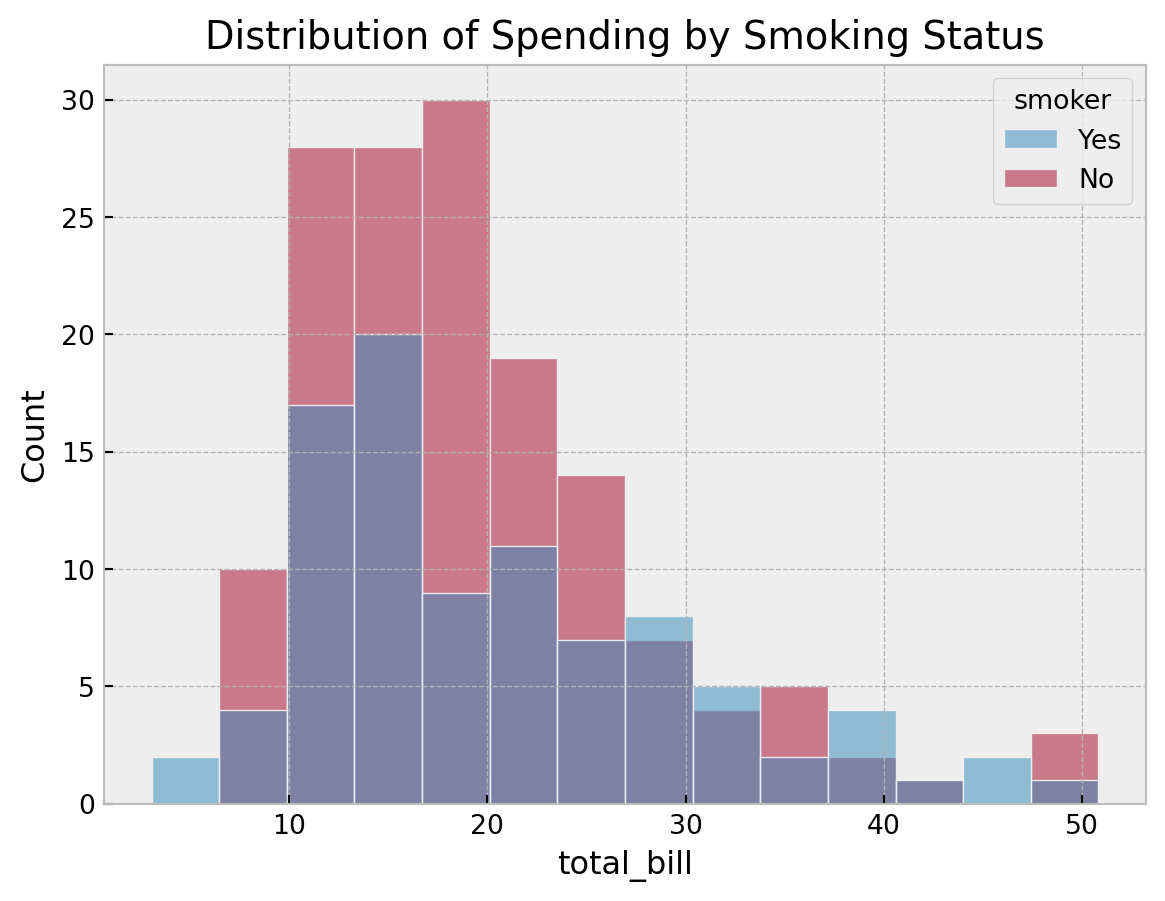
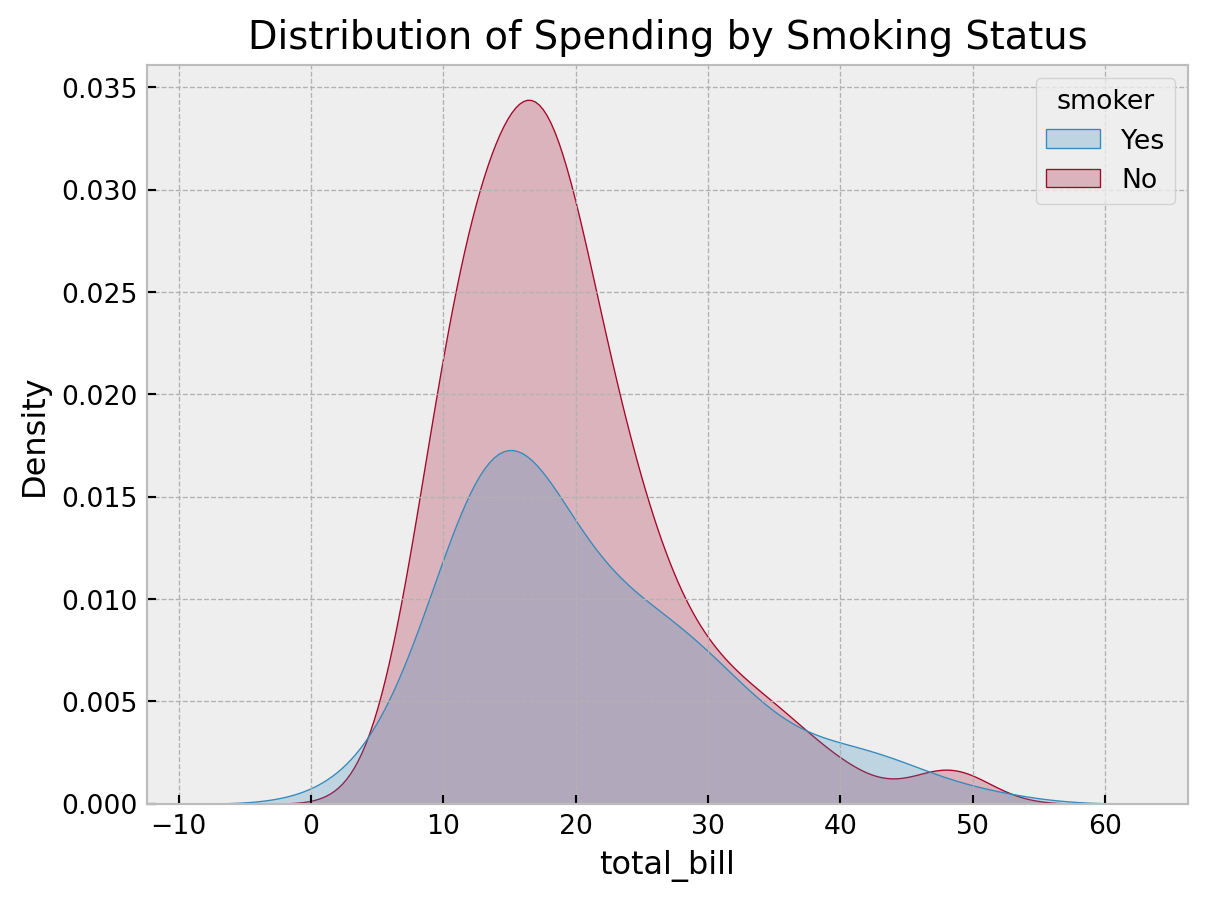
"Test Commit"

diff --git a/docs/data_analytical_posts/tips_data/index.html b/docs/data_analytical_posts/tips_data/index.html
@@ -205,7 +205,7 @@ pre > code.sourceCode > span > a:first-child::before { text-decoration: underlin
 
 
 <p>This is a post on the tips dataset. This dataset is a record of</p>
-<div id="d78b0d78" class="cell" data-execution_count="1">
+<div id="595e9bd0" class="cell" data-execution_count="1">
 <div class="sourceCode cell-code" id="cb1"><pre class="sourceCode python code-with-copy"><code class="sourceCode python"><span id="cb1-1"><a href="#cb1-1" aria-hidden="true" tabindex="-1"></a><span class="im">import</span> pandas <span class="im">as</span> pd</span>
 <span id="cb1-2"><a href="#cb1-2" aria-hidden="true" tabindex="-1"></a><span class="im">import</span> numpy <span class="im">as</span> np</span>
 <span id="cb1-3"><a href="#cb1-3" aria-hidden="true" tabindex="-1"></a><span class="im">import</span> matplotlib.pyplot <span class="im">as</span> plt</span>
@@ -213,7 +213,7 @@ pre > code.sourceCode > span > a:first-child::before { text-decoration: underlin
 <span id="cb1-5"><a href="#cb1-5" aria-hidden="true" tabindex="-1"></a></span>
 <span id="cb1-6"><a href="#cb1-6" aria-hidden="true" tabindex="-1"></a>df_tips <span class="op">=</span> sns.load_dataset(<span class="st">"tips"</span>)</span>
 <span id="cb1-7"><a href="#cb1-7" aria-hidden="true" tabindex="-1"></a>df_tips.head()</span></code><button title="Copy to Clipboard" class="code-copy-button"><i class="bi"></i></button></pre></div>
-<div class="cell-output cell-output-display" data-execution_count="1">
+<div class="cell-output cell-output-display" data-execution_count="8">
 <div>
 
 
@@ -288,7 +288,7 @@ pre > code.sourceCode > span > a:first-child::before { text-decoration: underlin
 </div>
 </div>
 <p>Let us plot visit counts by days of the week.</p>
-<div id="b8d13be2" class="cell" data-execution_count="2">
+<div id="132d9e0d" class="cell" data-execution_count="2">
 <div class="sourceCode cell-code" id="cb2"><pre class="sourceCode python code-with-copy"><code class="sourceCode python"><span id="cb2-1"><a href="#cb2-1" aria-hidden="true" tabindex="-1"></a>plt.style.use(<span class="st">"bmh"</span>)</span>
 <span id="cb2-2"><a href="#cb2-2" aria-hidden="true" tabindex="-1"></a></span>
 <span id="cb2-3"><a href="#cb2-3" aria-hidden="true" tabindex="-1"></a>plt.title(<span class="st">"Visit Counts by Day of the Week"</span>)</span>
@@ -302,7 +302,7 @@ pre > code.sourceCode > span > a:first-child::before { text-decoration: underlin
 </div>
 </div>
 <p>We can also examine the distribution of visit counts by day of the week and sex.</p>
-<div id="c79d2a5a" class="cell" data-execution_count="3">
+<div id="a17b460a" class="cell" data-execution_count="3">
 <div class="sourceCode cell-code" id="cb3"><pre class="sourceCode python code-with-copy"><code class="sourceCode python"><span id="cb3-1"><a href="#cb3-1" aria-hidden="true" tabindex="-1"></a>plt.title(<span class="st">"Visit Counts by Day of the Week"</span>)</span>
 <span id="cb3-2"><a href="#cb3-2" aria-hidden="true" tabindex="-1"></a>sns.countplot(x<span class="op">=</span><span class="st">"day"</span>, hue<span class="op">=</span><span class="st">"sex"</span>, data<span class="op">=</span>df_tips)<span class="op">;</span></span></code><button title="Copy to Clipboard" class="code-copy-button"><i class="bi"></i></button></pre></div>
 <div class="cell-output cell-output-display">
@@ -315,7 +315,7 @@ pre > code.sourceCode > span > a:first-child::before { text-decoration: underlin
 </div>
 <section id="distribution-of-spending-by-gender" class="level2">
 <h2 class="anchored" data-anchor-id="distribution-of-spending-by-gender">Distribution of spending by gender</h2>
-<div id="495257ee" class="cell" data-execution_count="4">
+<div id="f5035c55" class="cell" data-execution_count="4">
 <div class="sourceCode cell-code" id="cb4"><pre class="sourceCode python code-with-copy"><code class="sourceCode python"><span id="cb4-1"><a href="#cb4-1" aria-hidden="true" tabindex="-1"></a>plt.title(<span class="st">"Distribution of Spending by Gender"</span>)</span>
 <span id="cb4-2"><a href="#cb4-2" aria-hidden="true" tabindex="-1"></a>sns.histplot(x<span class="op">=</span><span class="st">"total_bill"</span>, hue<span class="op">=</span><span class="st">"sex"</span>, data<span class="op">=</span>df_tips, fill<span class="op">=</span><span class="va">True</span>)<span class="op">;</span></span></code><button title="Copy to Clipboard" class="code-copy-button"><i class="bi"></i></button></pre></div>
 <div class="cell-output cell-output-display">
@@ -329,13 +329,39 @@ pre > code.sourceCode > span > a:first-child::before { text-decoration: underlin
 </section>
 <section id="distribution-of-spending-by-smoking-status" class="level2">
 <h2 class="anchored" data-anchor-id="distribution-of-spending-by-smoking-status">Distribution of spending by smoking status</h2>
-<div id="fc651629" class="cell" data-execution_count="5">
+<div id="f770e901" class="cell" data-execution_count="5">
 <div class="sourceCode cell-code" id="cb5"><pre class="sourceCode python code-with-copy"><code class="sourceCode python"><span id="cb5-1"><a href="#cb5-1" aria-hidden="true" tabindex="-1"></a>plt.title(<span class="st">"Distribution of Spending by Smoking Status"</span>)</span>
-<span id="cb5-2"><a href="#cb5-2" aria-hidden="true" tabindex="-1"></a>sns.histplot(x<span class="op">=</span><span class="st">"total_bill"</span>, hue<span class="op">=</span><span class="st">"smoker"</span>, data<span class="op">=</span>df_tips, fill<span class="op">=</span><span class="va">True</span>)<span class="op">;</span></span></code><button title="Copy to Clipboard" class="code-copy-button"><i class="bi"></i></button></pre></div>
+<span id="cb5-2"><a href="#cb5-2" aria-hidden="true" tabindex="-1"></a>sns.kdeplot(x<span class="op">=</span><span class="st">"total_bill"</span>, hue<span class="op">=</span><span class="st">"smoker"</span>, data<span class="op">=</span>df_tips, fill<span class="op">=</span><span class="va">True</span>)<span class="op">;</span></span></code><button title="Copy to Clipboard" class="code-copy-button"><i class="bi"></i></button></pre></div>
 <div class="cell-output cell-output-display">
 <div>
 <figure class="figure">
-<p><img src="index_files/figure-html/cell-6-output-1.png" width="583" height="451" class="figure-img"></p>
+<p><img src="index_files/figure-html/cell-6-output-1.png" width="604" height="451" class="figure-img"></p>
+</figure>
+</div>
+</div>
+</div>
+</section>
+<section id="distribution-of-spending-by-day" class="level2">
+<h2 class="anchored" data-anchor-id="distribution-of-spending-by-day">Distribution of spending by day</h2>
+<div id="8e87820b" class="cell" data-execution_count="6">
+<div class="sourceCode cell-code" id="cb6"><pre class="sourceCode python code-with-copy"><code class="sourceCode python"><span id="cb6-1"><a href="#cb6-1" aria-hidden="true" tabindex="-1"></a>plt.title(<span class="st">"Distribution of Spending by Day"</span>)</span>
+<span id="cb6-2"><a href="#cb6-2" aria-hidden="true" tabindex="-1"></a>sns.histplot(x<span class="op">=</span><span class="st">"total_bill"</span>, hue<span class="op">=</span><span class="st">"day"</span>, data<span class="op">=</span>df_tips, fill<span class="op">=</span><span class="va">True</span>)<span class="op">;</span></span></code><button title="Copy to Clipboard" class="code-copy-button"><i class="bi"></i></button></pre></div>
+<div class="cell-output cell-output-display">
+<div>
+<figure class="figure">
+<p><img src="index_files/figure-html/cell-7-output-1.png" width="583" height="451" class="figure-img"></p>
+</figure>
+</div>
+</div>
+</div>
+<p>We can also include boxplots.</p>
+<div id="86477d61" class="cell" data-execution_count="7">
+<div class="sourceCode cell-code" id="cb7"><pre class="sourceCode python code-with-copy"><code class="sourceCode python"><span id="cb7-1"><a href="#cb7-1" aria-hidden="true" tabindex="-1"></a>plt.title(<span class="st">"Distribution of Spending by Day"</span>)</span>
+<span id="cb7-2"><a href="#cb7-2" aria-hidden="true" tabindex="-1"></a>sns.boxplot(x<span class="op">=</span><span class="st">"day"</span>, y<span class="op">=</span><span class="st">"total_bill"</span>, data<span class="op">=</span>df_tips)<span class="op">;</span></span></code><button title="Copy to Clipboard" class="code-copy-button"><i class="bi"></i></button></pre></div>
+<div class="cell-output cell-output-display">
+<div>
+<figure class="figure">
+<p><img src="index_files/figure-html/cell-8-output-1.png" width="583" height="450" class="figure-img"></p>
 </figure>
 </div>
 </div>

diff --git a/docs/data_analysis.html b/docs/data_analysis.html
@@ -257,7 +257,7 @@ Musie Beyene PhD.
 </a>
 </div>
 </div>
-<div class="quarto-post image-right" data-index="1" data-categories="analysis" data-listing-date-sort="1731542400000" data-listing-file-modified-sort="1741775067657" data-listing-date-modified-sort="NaN" data-listing-reading-time-sort="1" data-listing-word-count-sort="89">
+<div class="quarto-post image-right" data-index="1" data-categories="analysis" data-listing-date-sort="1731542400000" data-listing-file-modified-sort="1741776973266" data-listing-date-modified-sort="NaN" data-listing-reading-time-sort="1" data-listing-word-count-sort="111">
 <div class="thumbnail">
 <p><a href="./data_analytical_posts/tips_data/index.html" class="no-external"></a></p><a href="./data_analytical_posts/tips_data/index.html" class="no-external">
 <p><img loading="lazy" src="./data_analytical_posts/tips_data/image.jpg" class="thumbnail-image"></p>
